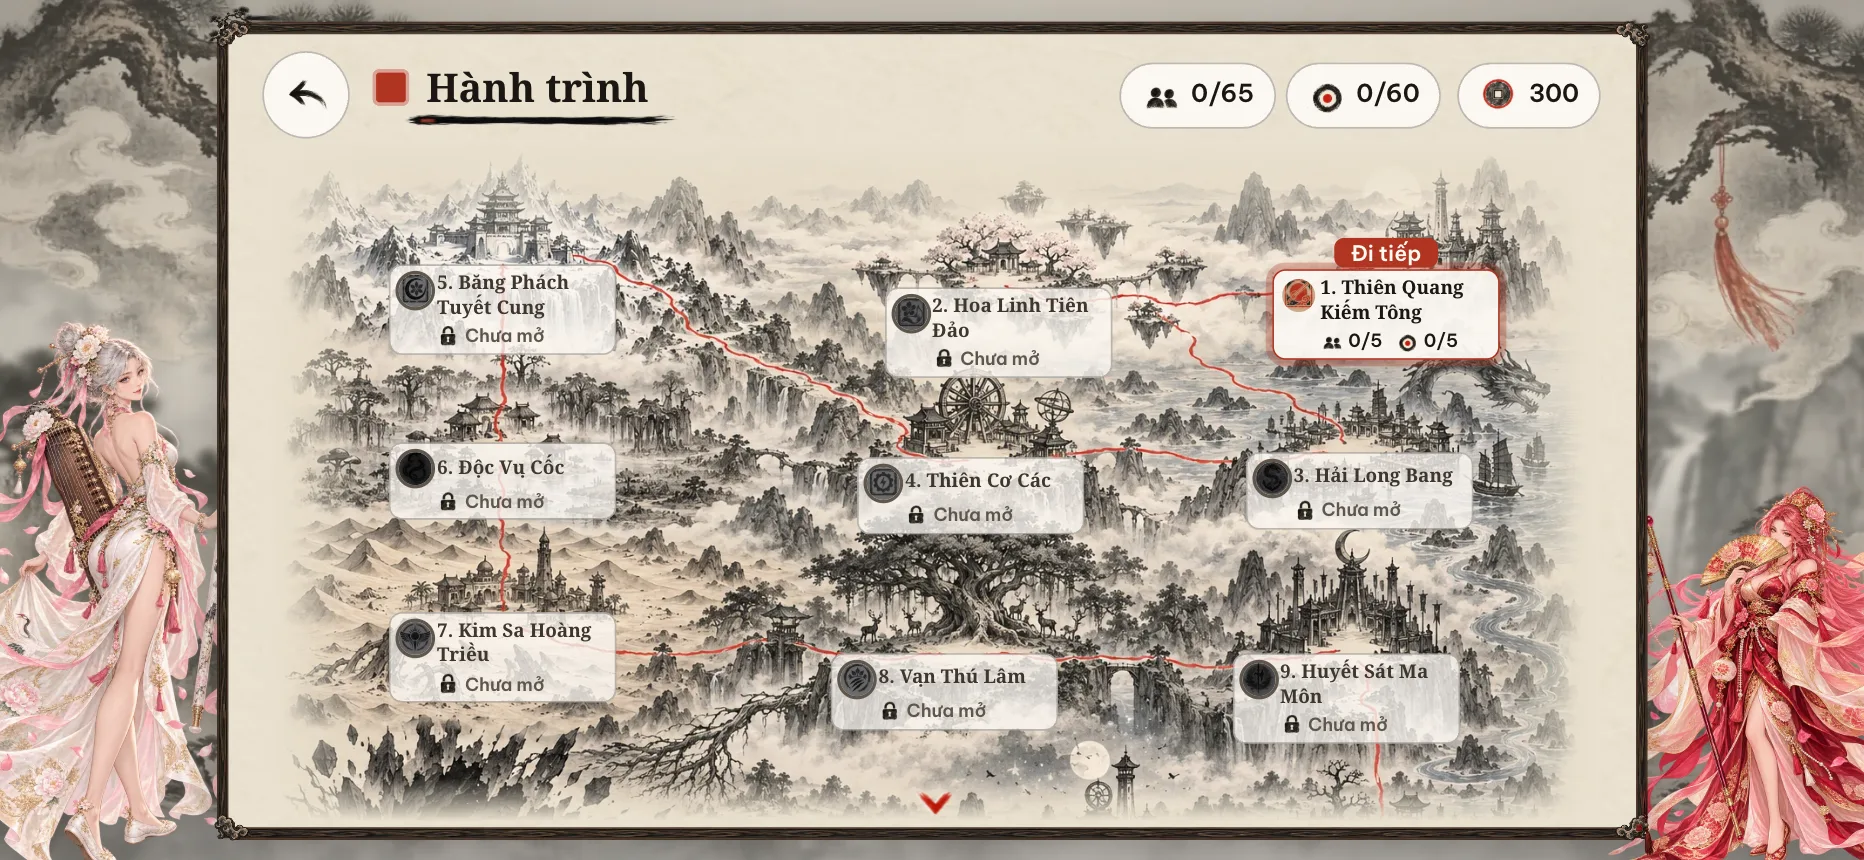
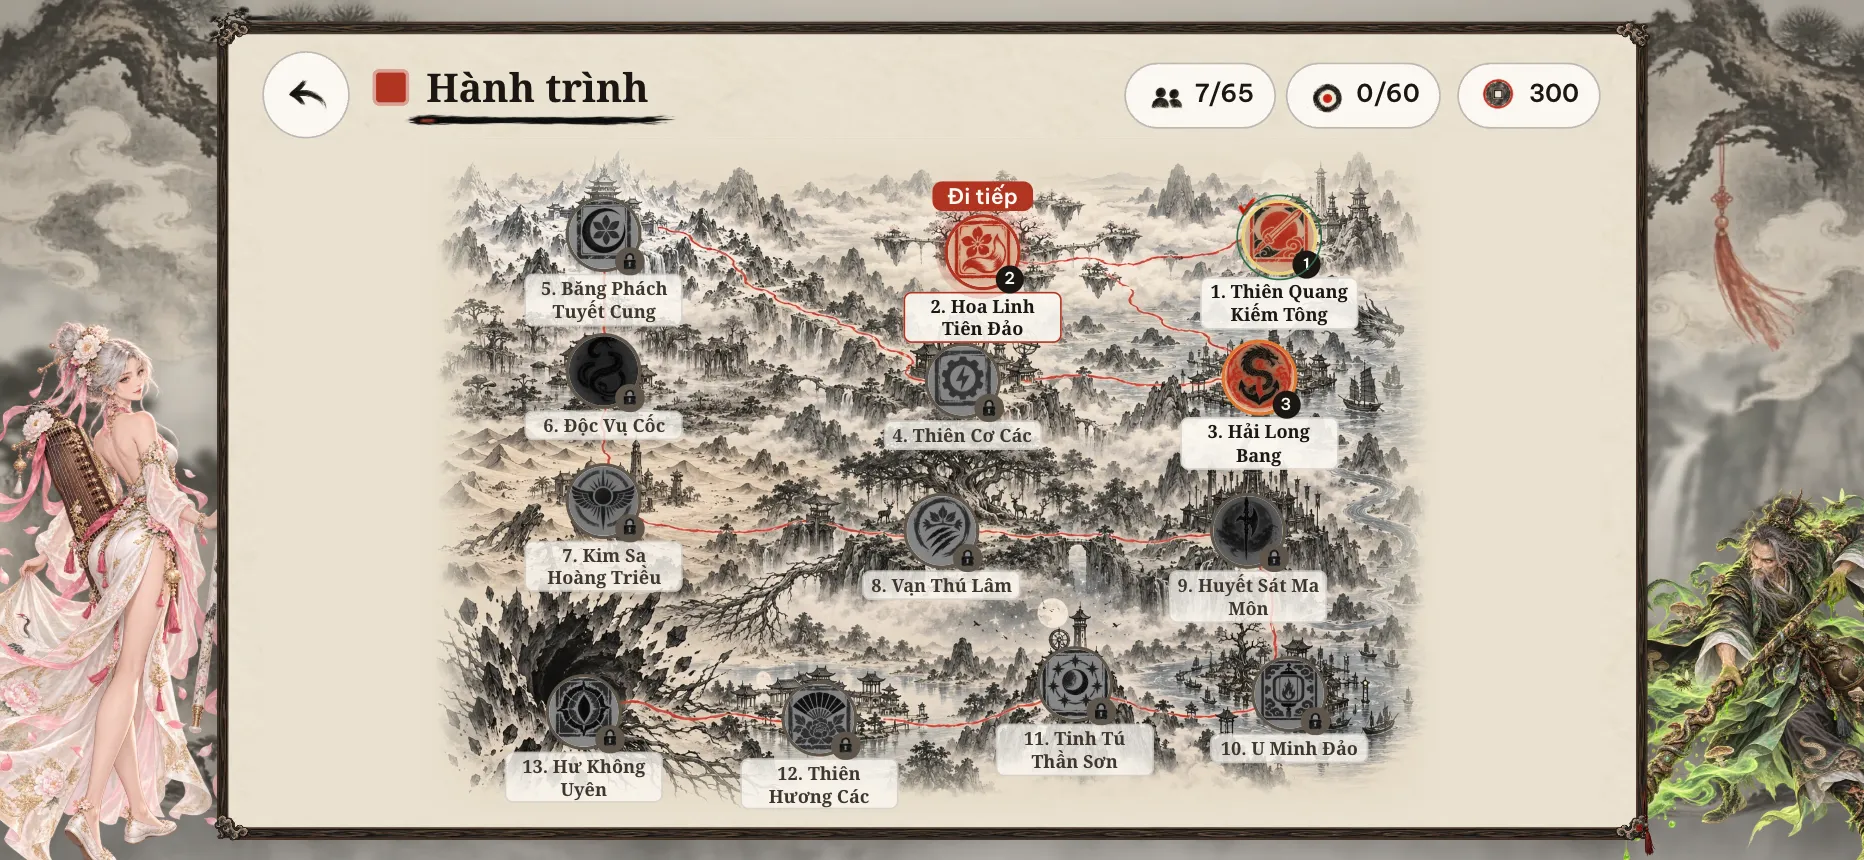
feat(journey): fit the map on one screen and give each land's boss its own row
Land seals replace the wide cards so all thirteen lands show without scrolling. The land sheet lays out tier 1-4 masters in a 2x2 grid with the tier-5 boss on a full-width row.

diff --git a/src/styles/screens.css b/src/styles/screens.css
@@ -410,44 +410,94 @@ textarea.code-box:focus { border-color: var(--accent); }
 
 /* ---------- Journey map ---------- */
 
+/* The map is height-limited so all thirteen lands stay in the frame without scrolling. */
 .journey-scroll {
-  overflow: auto;
-  touch-action: pan-x pan-y;
+  display: grid;
+  place-items: center;
+  min-height: 0;
+  container-type: size;
 }
-.journey-map { position: relative; width: 100%; min-width: 760px; aspect-ratio: 3 / 2; }
+.journey-map {
+  position: relative;
+  width: min(100cqw, 150cqh);
+  aspect-ratio: 3 / 2;
+}
 .journey-art { position: absolute; inset: 0; width: 100%; height: 100%; display: block; }
 .land-pin {
+  --pin-y: 0%;
   position: absolute;
   z-index: 1;
-  translate: -50% var(--pin-y, 0%);
-  display: grid;
-  grid-template-columns: 20px minmax(0, 1fr);
+  top: calc(var(--pin-y) - 29px);
+  translate: -50% 0;
+  width: 112px;
+  min-height: 68px;
+  display: flex;
+  flex-direction: column;
   align-items: center;
-  min-height: 44px;
-  background: color-mix(in srgb, var(--sheet) 94%, transparent);
+  justify-content: flex-start;
+  padding-top: 8px;
   color: var(--ink);
-  border: 1px solid var(--line-2);
-  border-radius: var(--r-1);
-  box-shadow: var(--sh-1);
-  text-align: left;
+  text-align: center;
   transition: transform 0.12s var(--ease);
 }
 .land-pin.pressed { transform: scale(0.95); }
-.lp-emblem { position: relative; width: 20px; height: 20px; align-self: flex-start; margin-top: 2px; flex-shrink: 0; border-radius: 50%; overflow: hidden; }
-.lp-emblem img { width: 100%; height: 100%; display: block; }
-.lp-text { display: contents; }
-.lp-name { grid-column: 2; min-width: 0; font: 700 14px/1.3 var(--display); text-overflow: ellipsis; }
-.lp-prog { grid-column: 2; display: flex; align-items: center; gap: 3px; font-size: 11px; line-height: 1.2; white-space: nowrap; }
-.lp-prog .ico { width: 14px; height: 14px; }
-.lp-prog b { margin-right: 5px; }
-.land-pin.done { border-color: var(--ok); }
-.land-pin.current { border-color: var(--accent); box-shadow: 0 0 0 4px rgba(176, 53, 34, 0.3), var(--sh-2); animation: pin-pulse 2s ease-in-out infinite; }
-@keyframes pin-pulse { 50% { box-shadow: 0 0 0 8px rgba(176, 53, 34, 0.12), var(--sh-2); } }
+/* The emblem's centre—not the button's centre—marks the painted plaza. */
+.lp-emblem {
+  position: relative;
+  width: 42px;
+  height: 42px;
+  flex-shrink: 0;
+  border-radius: 50%;
+  background: var(--sheet);
+  box-shadow: 0 0 0 2px var(--sect, var(--ink-2));
+}
+.lp-emblem img { width: 100%; height: 100%; display: block; border-radius: 50%; }
+.lp-badge {
+  position: absolute;
+  right: -4px;
+  bottom: -4px;
+  min-width: 17px;
+  height: 17px;
+  display: grid;
+  place-items: center;
+  padding: 0 3px;
+  border-radius: 999px;
+  background: var(--ink);
+  color: var(--sheet);
+  font: 700 10px/1 var(--body);
+}
+.lp-badge .ico { width: 12px; height: 12px; }
+.land-pin.done > .lp-emblem::after {
+  content: '';
+  position: absolute;
+  inset: -5px;
+  border: 1.5px solid var(--ok);
+  border-radius: 50%;
+}
+.land-pin.done .lp-check { position: absolute; left: -6px; top: -5px; width: 15px; height: 15px; }
+.lp-text { width: 100%; max-width: 96px; margin-top: 3px; }
+.lp-name {
+  display: -webkit-box;
+  -webkit-box-orient: vertical;
+  -webkit-line-clamp: 2;
+  overflow: hidden;
+  padding: 2px 5px;
+  border-radius: 5px;
+  background: color-mix(in srgb, var(--sheet) 90%, transparent);
+  box-shadow: inset 0 0 0 1px var(--line);
+  font: 700 11px/1.25 var(--display);
+  overflow-wrap: anywhere;
+}
+.land-pin.current .lp-emblem { box-shadow: 0 0 0 2px var(--accent), 0 0 0 5px color-mix(in srgb, var(--accent) 30%, transparent); animation: pin-pulse 2s ease-in-out infinite; }
+.land-pin.current .lp-name { box-shadow: inset 0 0 0 1px var(--accent); }
+@keyframes pin-pulse { 50% { box-shadow: 0 0 0 2px var(--accent), 0 0 0 9px color-mix(in srgb, var(--accent) 12%, transparent); } }
+@media (prefers-reduced-motion: reduce) { .land-pin.current .lp-emblem { animation: none; } }
 .lp-flag {
   position: absolute;
   left: 50%;
+  bottom: calc(100% - 4px);
   translate: -50% 0;
-  padding: 1px 10px;
+  padding: 1px 9px;
   border-radius: 6px;
   background: var(--accent);
   color: var(--on-accent);
@@ -455,11 +505,12 @@ textarea.code-box:focus { border-color: var(--accent); }
   font-weight: 700;
   white-space: nowrap;
 }
-/* Locked lands: a solid ink plate, clearly closed. */
-.land-pin.locked { color: var(--ink-2); border-color: var(--line-2); }
+/* Locked lands keep the route visible while clearly reading as closed. */
+.land-pin.locked { color: var(--ink-2); }
 .land-pin.locked .lp-emblem { box-shadow: 0 0 0 2px var(--muted); }
-.land-pin.locked .lp-emblem img { filter: grayscale(1) brightness(0.5); }
-.lp-closed { color: var(--muted); font-weight: 600; }
+.land-pin.locked .lp-emblem img { filter: grayscale(1) brightness(0.62); }
+.land-pin.locked .lp-badge { background: var(--muted); }
+.land-pin.locked .lp-name { color: var(--ink-2); background: color-mix(in srgb, var(--sheet) 78%, transparent); }
 
 .modal.land-sheet {
   width: min(940px, 100%);
@@ -472,13 +523,51 @@ textarea.code-box:focus { border-color: var(--accent); }
 }
 .ls-art { position: relative; overflow: hidden; background: color-mix(in srgb, var(--sect) 40%, var(--ink)); }
 .ls-art img { width: 100%; height: 100%; object-fit: cover; display: block; }
-.ls-body { min-height: 0; display: flex; flex-direction: column; gap: 10px; padding: 16px 18px; }
+.ls-body { min-height: 0; display: flex; flex-direction: column; gap: 8px; padding: 14px 18px; }
 .ls-head { display: flex; align-items: center; gap: 12px; padding-right: 44px; }
 .ls-head img { width: 52px; height: 52px; border-radius: 50%; flex-shrink: 0; box-shadow: 0 0 0 2px var(--sect, var(--ink)); }
 .ls-head h2 { font: 800 var(--fs-xl)/1.2 var(--display); }
 .ls-desc { font-size: var(--fs-s) !important; }
-.ls-body .section-title { margin: 6px 0 0; color: var(--accent-2); }
-.ls-masters { display: grid; grid-template-columns: repeat(auto-fill, minmax(100px, 1fr)); gap: 8px; }
+.ls-body .section-title { margin: 2px 0 0; color: var(--accent-2); }
+/* Four route masters in a square, then the tier-five boss across the full row. */
+.ls-masters { display: grid; grid-template-columns: repeat(2, minmax(0, 1fr)); gap: 6px; }
+.land-sheet .ls-masters .champ-card {
+  display: grid;
+  grid-template-columns: 48px minmax(0, 1fr);
+  column-gap: 8px;
+  align-content: center;
+  align-items: center;
+  justify-items: start;
+  text-align: left;
+}
+.land-sheet .ls-masters .cc-art { grid-row: 1 / span 3; width: 48px; max-width: none; margin: 0; }
+.land-sheet .ls-masters .champ-card > :not(.cc-art) { grid-column: 2; max-width: 100%; }
+.land-sheet .ls-masters .cc-name {
+  justify-self: stretch;
+  min-height: 0;
+  margin: 0;
+  display: block;
+  white-space: nowrap;
+  overflow: hidden;
+  text-overflow: ellipsis;
+}
+.land-sheet .ls-masters .cc-sub { justify-self: stretch; white-space: nowrap; overflow: hidden; text-overflow: ellipsis; }
+.land-sheet .ls-masters .cc-cta { margin-top: 2px; }
+.land-sheet .ls-masters .stars { gap: 1px; }
+.land-sheet .ls-masters .stars .ico { width: 15px; height: 15px; }
+.land-sheet .ls-masters .ls-boss { grid-column: 1 / -1; grid-template-columns: 60px minmax(0, 1fr); padding: 5px 10px 5px 5px; }
+.land-sheet .ls-masters .ls-boss .cc-art { width: 60px; }
+.ls-boss-foot { display: flex; align-items: center; gap: 6px; margin-top: 2px; }
+.ls-boss-foot > .cc-cta { margin-top: 0; }
+.ls-boss-tag {
+  padding: 1px 8px;
+  border-radius: 999px;
+  background: var(--accent);
+  color: var(--on-accent);
+  font-size: var(--fs-xs);
+  font-weight: 700;
+  white-space: nowrap;
+}
 .ls-tasks { display: grid; grid-template-columns: repeat(auto-fill, minmax(210px, 1fr)); gap: 8px; }
 .task-card {
   display: flex;
@@ -506,7 +595,6 @@ textarea.code-box:focus { border-color: var(--accent); }
 .ls-lore summary { min-height: 44px; display: flex; align-items: center; padding: 0 12px; font-weight: 700; cursor: pointer; }
 .ls-lore p { padding: 0 12px 12px; }
 .ls-note { font-size: var(--fs-s) !important; color: var(--muted) !important; }
-
 /* ---------- Codex ---------- */
 
 .prose { padding: 14px 16px; }
@@ -529,6 +617,7 @@ textarea.code-box:focus { border-color: var(--accent); }
 .modal.art-view { width: 100%; max-width: none; height: 100%; padding: 6px; background: var(--sheet); cursor: zoom-out; }
 .art-view img { width: 100%; height: 100%; object-fit: contain; }
 .locked-note { padding: 10px 12px; border-radius: var(--r-2); background: var(--sheet-2); }
+
 /* Tàng Các links: sect headings, gear cards and sect pages point at each other instead of repeating content. */
 .class-filter { flex-wrap: nowrap; margin-bottom: 10px; overflow-x: auto; scrollbar-width: none; }
 .class-filter .chip { flex-shrink: 0; }

diff --git a/src/ui/screens/journey.ts b/src/ui/screens/journey.ts
@@ -74,7 +74,6 @@ export function journeyScreen(app: App, focusLand?: SectId): Screen {
   // Returning from a duel focuses its land; otherwise go to the first land still to play.
   const target = journeyFocus(focusLand, CHAPTERS.map((ch, i) => ({ id: ch.id, open: landOpen(app, i), beaten: ch.npcs.every((n) => p.career[n.id] !== undefined) })));
   const current = CHAPTERS.findIndex((ch) => ch.id === target);
-  let focus: HTMLElement | null = null;
   CHAPTERS.forEach((ch, i) => {
     const [x, y] = PINS[ch.id];
     const open = landOpen(app, i);
@@ -84,40 +83,30 @@ export function journeyScreen(app: App, focusLand?: SectId): Screen {
     const done = beaten === ch.npcs.length;
     const state = !open ? 'locked' : i === current ? 'current' : done ? 'done' : '';
     const pin = h('button.land-pin', {
-      class: state, style: `left:clamp(77px, ${x * 100}%, calc(100% - 77px));top:${y * 100}%;--pin-y:${y > 0.85 ? -100 : 0}%;--sect:${hex6(sect(ch.id).main)}`,
+      class: state,
+      style: `left:clamp(56px, ${x * 100}%, calc(100% - 56px));--pin-y:${y * 100}%;--sect:${hex6(sect(ch.id).main)}`,
       'aria-label': open ? `${ch.name}: ${beaten}/${ch.npcs.length} cao thủ, ${solved}/${tasks.length} thử thách` : `${ch.name}: chưa mở`,
     },
     i === current ? h('span.lp-flag', null, 'Đi tiếp') : null,
-    h('span.lp-emblem', null, h('img', { src: sectArtUrl(ch.id, 'emblem'), alt: '' })),
-    h('span.lp-text', null,
-      h('span.lp-name', null, `${i + 1}. ${ch.name}`),
-      open
-        ? h('span.lp-prog', null, icon('users'), h('b.num', null, `${beaten}/${ch.npcs.length}`), icon('target'), h('b.num', null, `${solved}/${tasks.length}`))
-        : h('span.lp-prog.lp-closed', null, icon('lock'), 'Chưa mở'),
-    ),
+    h('span.lp-emblem', null,
+      h('img', { src: sectArtUrl(ch.id, 'emblem'), alt: '' }),
+      h('span.lp-badge', null, open ? (i + 1).toString() : icon('lock')),
+      done ? icon('check', 'lp-check') : null),
+    h('span.lp-text', null, h('span.lp-name', null, `${i + 1}. ${ch.name}`)),
     );
     tap(pin, () => (open ? landSheet(app, ch.id) : toast(`Thắng ${CHAPTERS[i - 1].npcs[0].name} ở ${CHAPTERS[i - 1].name} để mở đường tới đây`, 'bad')));
-    if (i === current) focus = pin;
     map.append(pin);
   });
   const beatenAll = Object.keys(p.career).length;
   const solvedAll = Object.values(p.challenges).filter((v) => v > 0).length;
-  const scroller = h('div.scroll.journey-scroll', null, map);
   el.append(
     topbar(app, 'Hành trình', true,
       statChip('users', `${beatenAll}/${ALL_NPCS.length}`, `Đã thắng ${beatenAll}/${ALL_NPCS.length} cao thủ`),
       statChip('target', `${solvedAll}/${CHALLENGES.length}`, `Đã giải ${solvedAll}/${CHALLENGES.length} thử thách`)),
-    scroller,
+    h('div.journey-scroll', null, map),
   );
-  // Bring the land to play next into view once the map has its size.
-  requestAnimationFrame(() => requestAnimationFrame(() => {
-    const f = focus as HTMLElement | null;
-    if (!f) return;
-    scroller.scrollTop = Math.max(0, f.offsetTop - scroller.clientHeight / 2);
-  }));
   return { el };
 }
-
 function landSheet(app: App, id: SectId) {
   const ch = CHAPTERS.find((c) => c.id === id)!;
   const p = app.profile;
@@ -135,13 +124,16 @@ function landSheet(app: App, id: SectId) {
         statChip('users', `${beaten}/${ch.npcs.length} cao thủ`),
         statChip('target', `${solved}/${tasks.length} thử thách`)),
       h('h3.section-title', null, 'Cao thủ'),
-      h('div.ls-masters', null, ...ch.npcs.map((n) => {
+      h('div.ls-masters', null, ...ch.npcs.map((n, ni) => {
         const open = npcOpen(app, n);
         const best = p.career[n.id];
+        // Masters are sorted by tier, so the last one is the land's tier-5 boss.
+        const boss = ni === ch.npcs.length - 1;
+        const foot = best !== undefined ? stars(best) : n === nextNpc ? h('span.cc-cta', null, 'Thách đấu') : null;
         return champCard(champion(n.id), {
-          locked: !open, name: n.name, cls: n === nextNpc ? 'next' : '',
+          locked: !open, name: n.name, cls: `${boss ? 'ls-boss' : 'ls-master'}${n === nextNpc ? ' next' : ''}`,
           sub: open ? `${MODE_NAMES[n.mode]} · ${LEVEL_NAMES[n.level]}` : 'Thắng cao thủ trước để mở',
-          foot: best !== undefined ? stars(best) : n === nextNpc ? h('span.cc-cta', null, 'Thách đấu') : null,
+          foot: boss ? h('span.ls-boss-foot', null, h('span.ls-boss-tag', null, 'Trùm vùng'), foot) : foot,
         }, () => {
           if (!open) return toast('Thắng cao thủ trước để mở', 'bad');
           close();

diff --git a/src/styles/skin.css b/src/styles/skin.css
@@ -433,7 +433,7 @@
 
 /* One continuous landscape; the map is no longer a framed card. */
 .screen.journey { padding-bottom: 0; gap: 0; }
-.journey-scroll { flex: 1; min-height: 0; border-radius: 0; box-shadow: none; background: var(--frame); overscroll-behavior: none; }
+.journey-scroll { flex: 1; overflow: hidden; border-radius: 0; box-shadow: none; background: var(--frame); overscroll-behavior: none; }
 .journey-map { isolation: isolate; }
 .journey-art { object-fit: cover; }
 .journey-map::after {
@@ -441,7 +441,7 @@
   position: absolute;
   inset: 0;
   pointer-events: none;
-  background: linear-gradient(var(--frame), transparent 12%, transparent 88%, var(--frame)), linear-gradient(90deg, var(--frame), transparent 8%, transparent 92%, var(--frame));
+  background: linear-gradient(var(--frame), transparent 10%, transparent 90%, var(--frame)), linear-gradient(90deg, var(--frame), transparent 7%, transparent 93%, var(--frame));
 }
 
 /* Compact power ruler: reserve real travel instead of squeezing a wide tank. */
@@ -521,8 +521,8 @@ body { background: linear-gradient(#e9e1d0d1, #e9e1d0d1), var(--paper, none) cen
 .cutin .ci-kicker { font-size: 11px; letter-spacing: .08em; color: var(--sheet); text-shadow: 0 1px 3px #000, 0 0 6px #000; }
 .cutin .ci-name { font-size: 30px; line-height: 1.25; text-shadow: 0 2px 2px #000; }
 .cutin.rtl .ci-plate { left: 1%; }
-/* Route names remain readable instead of losing the sect at an ellipsis. */
-.lp-name { white-space: normal; overflow: visible; font-size: 11.5px; }
+/* Compact route seals leave the painted landscape visible between landmarks. */
+.land-pin { box-shadow: none; }
 
 /* Content scrolls within its own track; actions never cover skill hints. */
 .cp-content { min-height: 0; display: flex; flex-direction: column; gap: 6px; padding-right: 4px; }
@@ -544,8 +544,15 @@ body { background: linear-gradient(#e9e1d0d1, #e9e1d0d1), var(--paper, none) cen
 .sr-text { padding-bottom: 12px; }
 .sr-sheet > .more-chevron { top: auto !important; bottom: 2px; }
 /* Let the painted route remain visible behind compact, readable landmarks. */
-.land-pin { width: 138px; max-width: 138px; padding: 3px 5px; gap: 3px; }
-.land-pin.locked { background: color-mix(in srgb, var(--sheet) 78%, transparent); box-shadow: none; }
+.land-pin.locked { box-shadow: none; }
+/* Land masters read as horizontal paper cards; the boss is a single vermilion-edged row. */
+.land-sheet .ls-masters .champ-card { border-width: 6px; border-image-width: 6px; }
+.land-sheet .ls-masters .cc-lock { right: 2px; bottom: 2px; width: 22px; height: 22px; }
+.land-sheet .ls-masters .cc-lock .ico { width: 15px; height: 15px; }
+.land-sheet .ls-masters .champ-card.locked { opacity: .74; }
+.land-sheet .ls-masters .ls-boss { border: 1px solid var(--accent); border-image: none; background: color-mix(in srgb, var(--sheet) 92%, transparent); box-shadow: var(--sh-1); }
+.land-sheet .ls-boss .cc-art { box-shadow: inset 0 -18px 16px -14px var(--sect); }
+.land-sheet .ls-masters .ls-boss.locked { border-color: var(--line-2); background: var(--sheet-3); }
 /* Secondary copy is still legible at the design frame's native scale. */
 .cc-sub { font-size: 11px; line-height: 1.35; }
 /* VS portraits use the full square aperture; the painted frame overlays the image without shrinking it. */
@@ -782,8 +789,8 @@ body.playing .bd-scene, body.playing .bd-mist { animation-play-state: paused; }
 
 /* The close button sits over the top-right corner; keep the picker's note clear of it. */
 .profile-modal .pm-note { padding-right: 52px; }
-/* The "next land" flag sits fully above its pin so the land name stays readable. */
-.lp-flag { top: auto; bottom: calc(100% + 2px); line-height: 16px; }
+/* The "next land" flag rides above the seal without moving the painted landmark. */
+.lp-flag { line-height: 16px; }
 
 /* Tapped ball label: a painted paper slip holding the real ball and its name. */
 .mx-balltag {

diff --git a/docs/architecture/ui.md b/docs/architecture/ui.md
@@ -11,7 +11,7 @@ chuyển cảnh.
 | `screens/setup.ts` | Thiết lập Luận Cơ và Song Đấu |
 | `screens/collection.ts`, `settings.ts` | Tàng Các, Cài đặt |
 | `screens/career.ts`, `challenge-start.ts` | Trận Hành trình, mở một thử thách Luyện Cơ |
-| `screens/journey.ts` | Bản đồ Hành trình; mốc lấy thứ tự từ `CHAPTERS`; trận trở về mở đúng vùng đất vừa đánh |
+| `screens/journey.ts` | Bản đồ Hành trình vừa khít một màn, không cuộn; mốc lấy thứ tự từ `CHAPTERS`; trận trở về mở đúng vùng đất vừa đánh. Hộp thoại vùng đất xếp bốn cao thủ bậc 1–4 thành 2×2, trùm bậc 5 nằm riêng một hàng |
 | `screens/champion-page.ts` | Trang tướng duy nhất: Chiêu thức, Tiểu sử, Tranh; chiêu mộ hoặc chọn đại diện |
 | `screens/library.ts` | Trang môn phái và tab Luật của Tàng Các |
 | `screens/challenges.ts` | Luyện Cơ |
